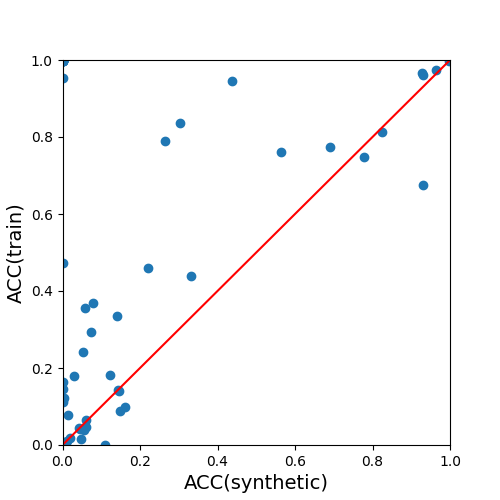
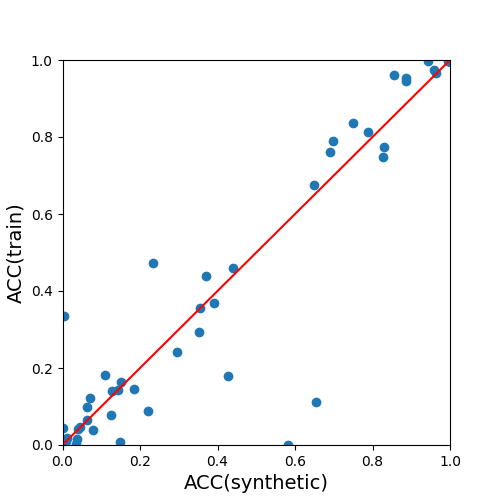
update inference of medgan and arae

diff --git a/mc_gan/arae_inference.py b/mc_gan/arae_inference.py
@@ -34,7 +34,7 @@ except:
 run = wandb.init(
     project="HDistVAE", 
     entity="anseunghwan",
-    tags=['medGAN', 'inference'],
+    tags=['ARAE', 'inference'],
 )
 #%%
 import argparse
@@ -45,7 +45,7 @@ def get_args(debug):
                         help='model number')
     parser.add_argument('--dataset', type=str, default='survey', 
                         help='Dataset options: mnist, census, survey')
-    parser.add_argument('--mc', default=False, type=str2bool,
+    parser.add_argument('--mc', default=True, type=bool,
                         help='Multi-Categorical setting')
     
     if debug:
@@ -58,8 +58,8 @@ def main():
     config = vars(get_args(debug=False)) # default configuration
     
     """model load"""
-    model_name = lambda x: f'mc_medGAN_{config["dataset"]}' if x else f'medGAN_{config["dataset"]}'
-    artifact = wandb.use_artifact(f'anseunghwan/HDistVAE/{model_name(config["mc"])}:v{config["num"]}', type='model')
+    model_name = f'mc_ARAE_{config["dataset"]}'
+    artifact = wandb.use_artifact(f'anseunghwan/HDistVAE/{model_name}:v{config["num"]}', type='model')
     for key, item in artifact.metadata.items():
         config[key] = item
     model_dir = artifact.download()
@@ -68,24 +68,6 @@ def main():
     device = torch.device('cuda:0') if torch.cuda.is_available() else torch.device('cpu')
     config["cuda"] = torch.cuda.is_available()
     wandb.config.update(config)
-    
-    model_module = importlib.import_module('module.model')
-    importlib.reload(model_module)
-
-    generator = getattr(model_module, 'medGANGenerator')(
-        config["embedding_dim"]).to(device)
-    
-    try:
-        model_name = [x for x in os.listdir(model_dir) if x.endswith('pth')][0]
-        generator.load_state_dict(
-            torch.load(
-                model_dir + '/' + model_name))
-    except:
-        model_name = [x for x in os.listdir(model_dir) if x.endswith('pth')][0]
-        generator.load_state_dict(
-            torch.load(
-                model_dir + '/' + model_name, map_location=torch.device('cpu')))
-    generator.eval()
     #%%
     out = build_dataset(config)
     dataset = out[0]
@@ -99,27 +81,41 @@ def main():
     #%%
     auto_model_module = importlib.import_module('module.model_auto')
     importlib.reload(auto_model_module)
-    auto_model_name = lambda x: f'dec_mc_medGAN_{config["dataset"]}' if x else f'dec_medGAN_{config["dataset"]}'
-    artifact = wandb.use_artifact(f'anseunghwan/HDistVAE/{auto_model_name(config["mc"])}:v{config["seed"]}', type='model')
-    model_dir = artifact.download()
-    
     autoencoder = getattr(auto_model_module, 'AutoEncoder')(
         config, 
         config["hidden_dims"], 
         list(reversed(config["hidden_dims"])), 
         OutputInfo_list=OutputInfo_list).to(device)
-    
+    #%%
+    model_module = importlib.import_module('module.model')
+    importlib.reload(model_module)
+
+    generator = getattr(model_module, 'Generator')(
+        config["embedding_dim"], 
+        config["embedding_dim"], 
+        hidden_sizes=config["hidden_dims_gen"],
+        bn_decay=0.1).to(device)
+    #%%
     try:
-        model_name = [x for x in os.listdir(model_dir) if x.endswith('pth')][0]
-        autoencoder.decoder.load_state_dict(
+        model_name = [x for x in os.listdir(model_dir) if x.endswith('pth') and x.startswith('autoencoder')][0]
+        autoencoder.load_state_dict(
+            torch.load(
+                model_dir + '/' + model_name))
+        model_name = [x for x in os.listdir(model_dir) if x.endswith('pth') and x.startswith('generator')][0]
+        generator.load_state_dict(
             torch.load(
                 model_dir + '/' + model_name))
     except:
-        model_name = [x for x in os.listdir(model_dir) if x.endswith('pth')][0]
-        autoencoder.decoder.load_state_dict(
+        model_name = [x for x in os.listdir(model_dir) if x.endswith('pth') and x.startswith('autoencoder')][0]
+        autoencoder.load_state_dict(
             torch.load(
                 model_dir + '/' + model_name, map_location=torch.device('cpu')))
-    autoencoder.eval()
+        model_name = [x for x in os.listdir(model_dir) if x.endswith('pth') and x.startswith('generator')][0]
+        generator.load_state_dict(
+            torch.load(
+                model_dir + '/' + model_name, map_location=torch.device('cpu')))
+        
+    autoencoder.eval(), generator.eval()
     #%%
     count_parameters = lambda model: sum(p.numel() for p in model.parameters() if p.requires_grad)
     num_params = count_parameters(generator) + count_parameters(autoencoder.decoder)
@@ -143,10 +139,7 @@ def main():
     with torch.no_grad():
         for _ in range(steps):
             z = torch.randn(config["batch_size"], config["embedding_dim"]).to(device) 
-            if config["mc"]:
-                data.append(autoencoder.decoder(generator(z), training=False))
-            else:
-                data.append(autoencoder.decoder(generator(z)))
+            data.append(autoencoder.decoder(generator(z), training=False))
     data = torch.cat(data, dim=0)
     data = data[:n, :]
     

diff --git a/mc_gan/module/train.py b/mc_gan/module/train.py
@@ -107,7 +107,7 @@ def train_ARAE(dataloader, autoencoder, discriminator, generator, config, optimi
         
         loss_ = []
         
-        """1. train autoencoder"""
+        """1. train autoencoder (mutli-categorical)"""
         optimizer_AE.zero_grad()
         
         code = autoencoder.encoder(x_batch)
